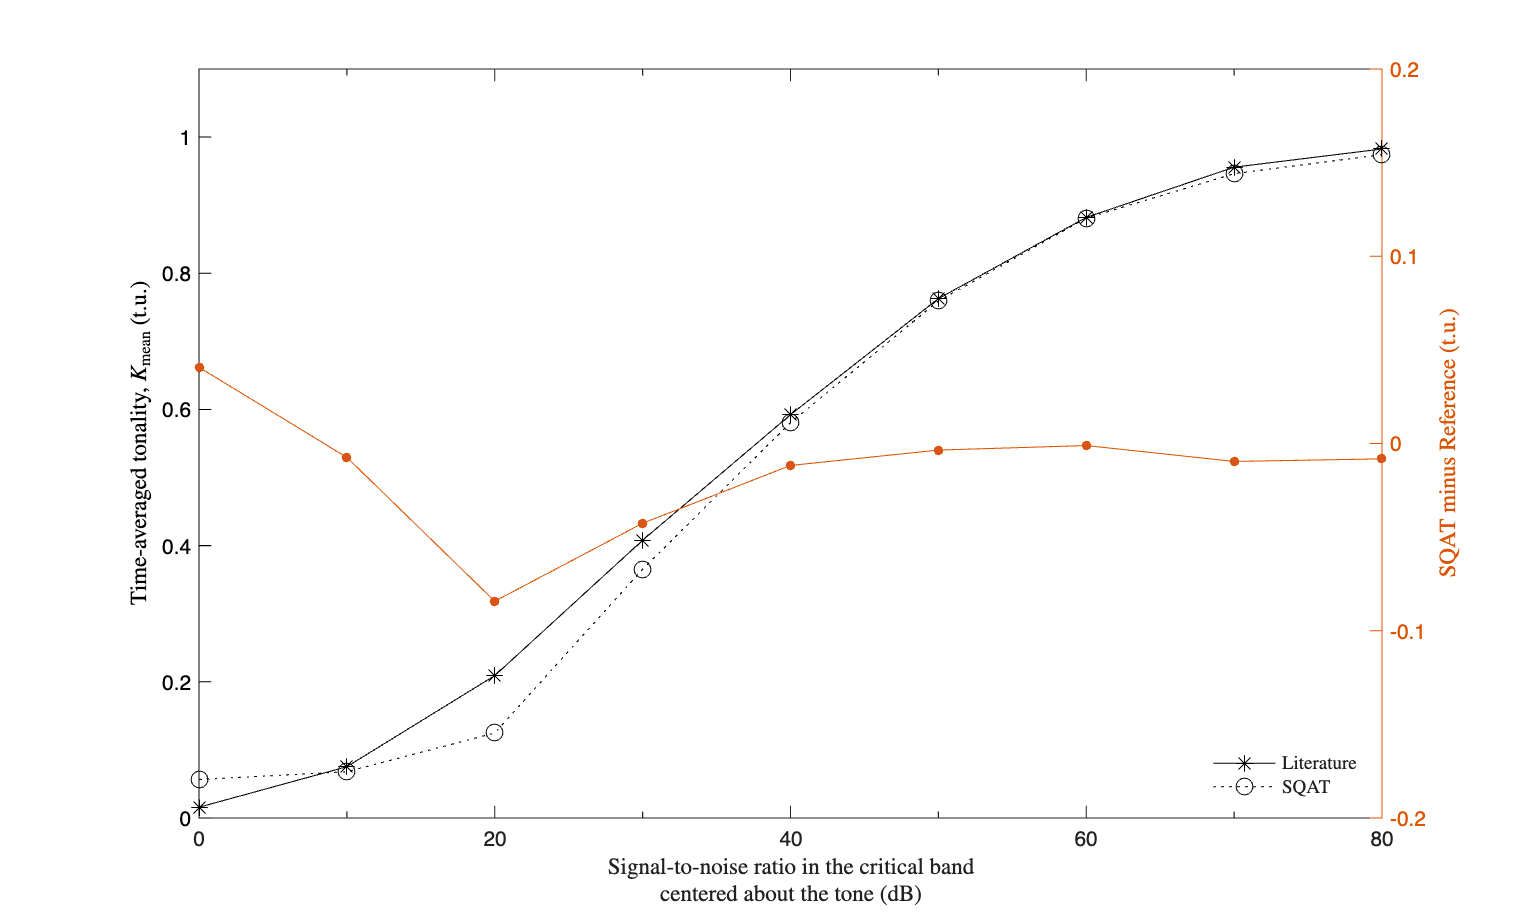
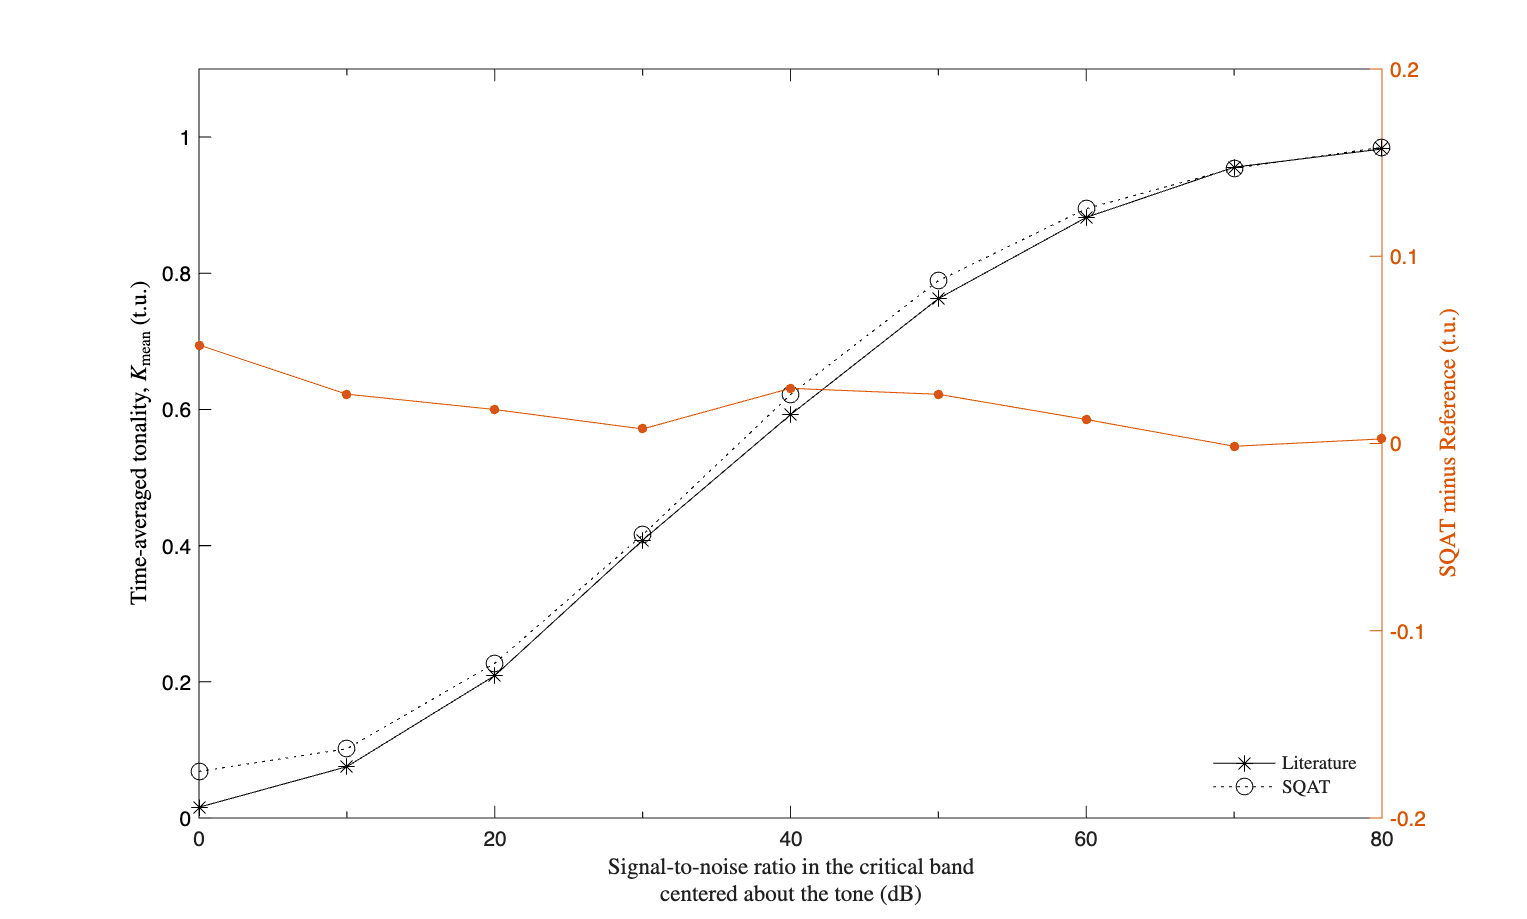
test: generate the signal to noise ratio verification of the tonality inline
The verification of `validation/Tonality_Aures1985` read nine files of the
dataset of Zenodo and plotted them against Fig. 1(a) of Hastings et al. (2003).
Two things did not line up with that figure.

The label of each file is not the quantity the figure plots. Measured on the
files, the tone sits at 82.0 dB SPL and the level of the noise inside the
critical band follows `111.1 - label` dB in exact steps of 10 dB, so the signal
to noise ratio inside the critical band, which is what the abscissa names, is
`label - 29` dB. The generating script accounts for the difference: the level
asked for the noise is applied as a spectrum level, which adds
`10*log10(162.2) = 22.1` dB for one critical band at 1 kHz, and the caller
subtracts a further 7 dB from the list of prominences.

The noise is also of a different kind. The figure reports pure tones in
broadband noise, and the files hold noise one critical band wide.

The signals are now generated by the script: a pure tone of 85 dB SPL at 1 kHz
plus white noise whose level inside the critical band sits the wanted number of
decibels below the tone. White noise spreads its power evenly over frequency, so
the total level of the noise is the level wanted inside the band plus
`10*log10((fs/2)/CB)`. No external dataset is needed any more.

Agreement with the reference improves and, more to the point, it now happens in
the coordinates the reference uses. The root mean square deviation over the nine
[…]

diff --git a/validation/Tonality_Aures1985/validation_signal_to_noise_ratio.m b/validation/Tonality_Aures1985/validation_signal_to_noise_ratio.m
@@ -1,9 +1,12 @@
 % Script validation_signal_to_noise_ratio
 %
-% - This routine plot the validation of Aures' tonality code for pure tone 
-%   signals (85 dBSPL @ 1 kHz) and varying emergence level [0 10 20 30 40 
-%   50 60 70 80] dBSPL over a bandpass (white noise) in the critical band 
-%   centered around the tone 
+% - This routine verifies the tonality model of Aures against Fig. 1(a) of
+%   Hastings et al. (2003): a pure tone of 85 dB SPL at 1 kHz in broadband
+%   noise, as a function of the signal to noise ratio in the critical band
+%   centered about the tone. The test signals are generated by this script,
+%   so no external dataset is needed: the noise is white and its level is
+%   set so that the power it carries inside the critical band gives the
+%   wanted ratio.
 %   
 % - The reference data is taken from:
 %   Aaron Hastings, Kyoung Hoon Lee, Patricia Davies, and Aimée M. Surprenant
@@ -14,12 +17,9 @@
 %   OUT = Tonality_Aures1985(insig,fs,LoudnessField,time_skip,show)
 %   type <help Tonality_Aures1985> for more info
 %
-% In order to run this code, the user needs to download the dataset of 
-%  sound files from zenodo (https://doi.org/10.5281/zenodo.7933206).
-%  The obtained folder called `validation_SQAT_v1_0` has to be included in 
-%  the `sound_files` folder of the toolbox. 
-%
 % Author: Gil Felix Greco, Braunschweig, 22.03.2023
+% Modified: Sergio Aguirre, September 2026 - the test signals are generated
+%   here, with the level of the noise referred to the critical band as in [1]
 %%%%%%%%%%%%%%%%%%%%%%%%%%%%%%%%%%%%%%%%%%%%%%%%%%%%%%%%%%%%%%%%%%%%%%%%%%%
 clear all; close all; clc;
 
@@ -28,9 +28,6 @@ clear all; close all; clc;
 save_figs = 0;
 
 %% define input/output paths
-
-SQAT_version=1; % v1.0
-dir_sounds = get_dir_validation_sounds('Tonality_Aures1985',SQAT_version); 
 
 dir_out = [fileparts(mfilename('fullpath')) filesep];
 
@@ -49,17 +46,33 @@ ref=[
 80  0.9825276908062728
      ];
 
-%% load signals
+%% generate the test signals
+% A pure tone of Ltone dB SPL at fc, plus white noise whose level inside the
+% critical band centered at fc sits SNR dB below the tone. White noise spreads
+% its power evenly over frequency, so the total level of the noise is the level
+% wanted inside the band plus 10*log10((fs/2)/CB), with CB the critical
+% bandwidth after Zwicker.
 
-tag_str={'0','10','20','30','40','50','60','70','80'};
+fs    = 44100;   % sampling frequency (Hz)
+L     = 5;       % signal length (s)
+fc    = 1000;    % frequency of the tone (Hz)
+Ltone = 85;      % level of the tone (dB SPL), the series of Fig. 1(a) of [1]
+p0    = 2e-5;    % reference pressure (Pa)
+rng(1);          % the noise is random, so that the run is repeatable
 
-N_signals = length(tag_str);
-for i=1:N_signals
-    
-    % dir_sounds_local = [dir_sounds 'MakeToneEmergence' filesep];
-    fname_insig = sprintf('%s1Bark_tone_prominence_%sdB_fc_1khz_44khz_64bit.wav',dir_sounds,tag_str{i}); 
-    [insigs(:,i),fs]=audioread(fname_insig);
+CB   = 25 + 75*(1 + 1.4*(fc/1000)^2)^0.69;   % critical bandwidth at fc (Hz)
+t    = (0:1/fs:L-1/fs).';
+tone = sqrt(2)*p0*10^(Ltone/20)*sin(2*pi*fc*t);
+wn   = randn(numel(t),1); wn = wn/rms(wn);   % white noise of unit rms
 
+SNR       = ref(:,1).';          % dB, inside the critical band, as in [1]
+N_signals = numel(SNR);
+insigs    = zeros(numel(t),N_signals);
+
+for i = 1:N_signals
+    L_band      = Ltone - SNR(i);                  % noise level inside the band
+    L_total     = L_band + 10*log10((fs/2)/CB);    % level of the white noise
+    insigs(:,i) = tone + wn*p0*10^(L_total/20);
 end
 
 %% compute tonality

diff --git a/validation/Tonality_Aures1985/README.md b/validation/Tonality_Aures1985/README.md
@@ -1,7 +1,7 @@
 # Tonality model from Aures: verification of the implementation in SQAT
 The `validation_signal_to_noise_ratio.m` code is used to verify the implementation of the tonality model from Aures [1] (see `Tonality_Aures1985` code [here](../../psychoacoustic_metrics/Tonality_Aures1985/Tonality_Aures1985.m)). The verification is performed considering the foloowing test signals:
 
-- Pure tone (center frequency $f_{\mathrm{c}}=1~\mathrm{kHz}$ and sound pressure level $L_{\mathrm{p}}=85~\mathrm{dB}~\mathrm{SPL}$) with different signal-to-noise ratios (SNRs) from narrowband noises (one-critical-band wide, bandwidth $\mathrm{BW}=1081-918.8 ~\mathrm{Hz}$).
+- Pure tone (center frequency $f_{\mathrm{c}}=1~\mathrm{kHz}$ and sound pressure level $L_{\mathrm{p}}=85~\mathrm{dB}~\mathrm{SPL}$) in broadband noise, as a function of the signal-to-noise ratio inside the critical band centered about the tone, following Fig. 1(a) of [2].
 
 Three scripts are provided. The first compares the metric with published data, the other two were added in September 2026: one states the internal consistency of the implementation against properties that follow from the definition of the model, and the other compares the dependence of tonality on bandwidth with the subjective data of Hastings. The last two generate the signals they use and need no external dataset.
 
@@ -12,7 +12,7 @@ Three scripts are provided. The first compares the metric with published data, t
 | [`validation_bandwidth_dependence.m`](validation_bandwidth_dependence.m) | Hastings [3], Table B.52 of the thesis | the fall of the tonality as a narrow band of noise widens, Aures [1] Fig. 6 |
 
 # How to use this code
-In order to run this code and reproduce the figures available in the `figs` folder, the user needs to download the dataset of sound files from zenodo <a href="https://doi.org/10.5281/zenodo.7933206" target="_blank">here</a>. The obtained folder called `validation_SQAT_v1_0` has to be included in the `sound_files` folder of the toolbox. 
+The three scripts generate the signals they use, so no external dataset is needed.
 
 # Results
 The figures below compare the results obtained using the `Tonality_Aures1985` implementation in SQAT with reference data from [2]. 
